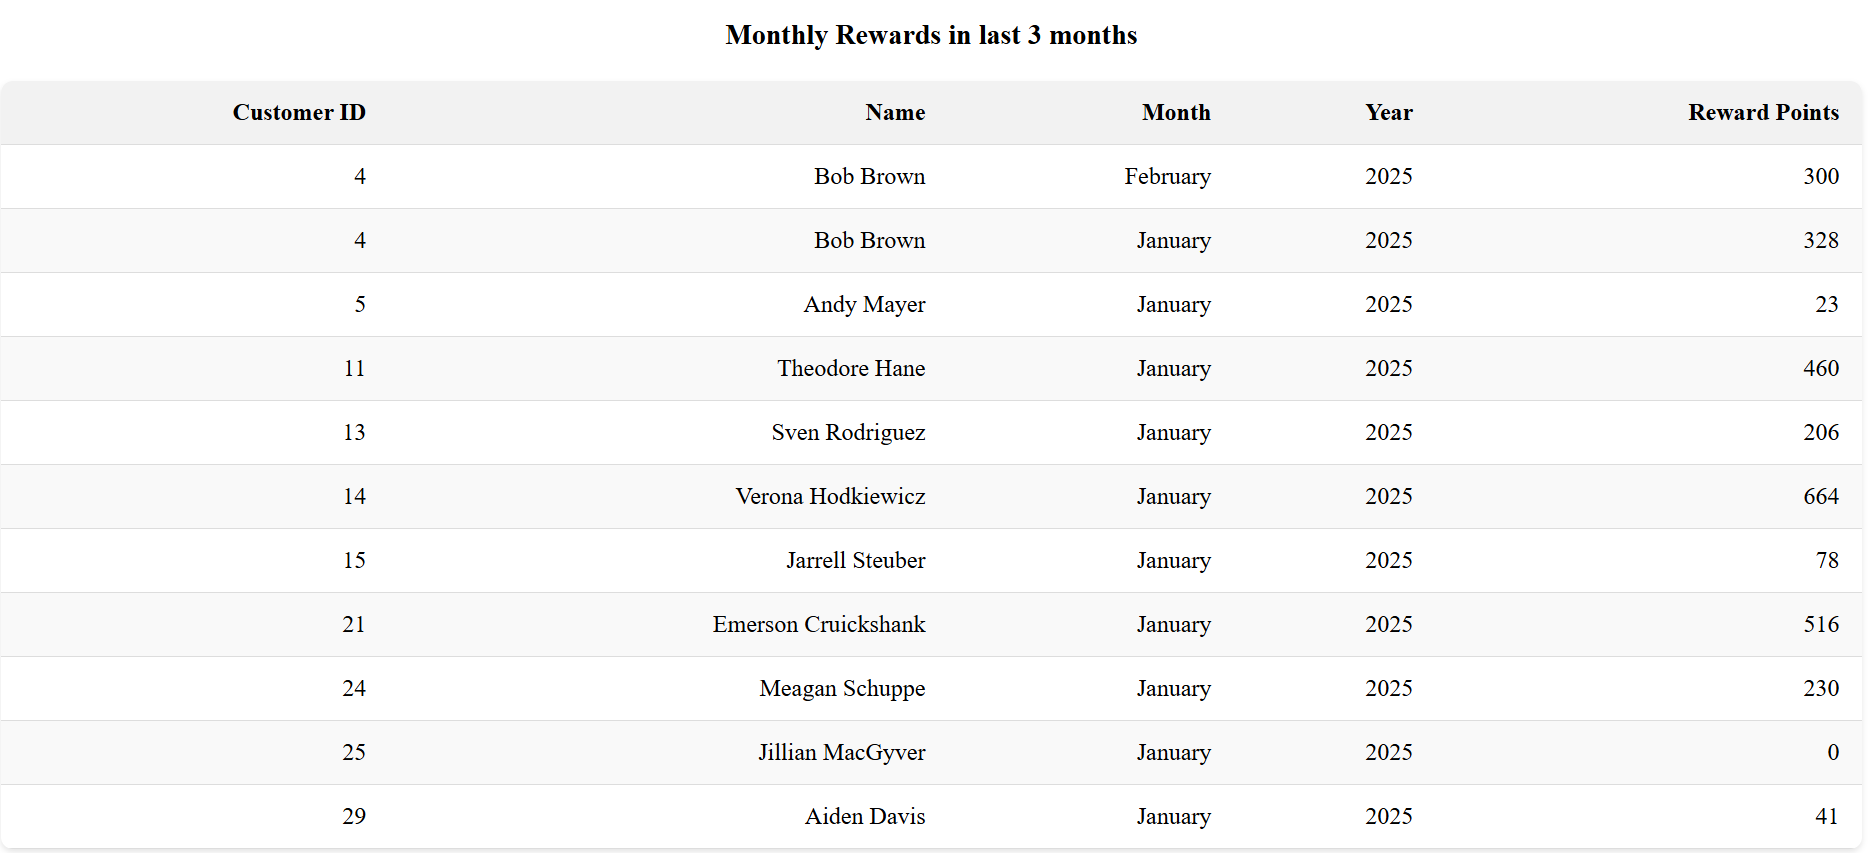
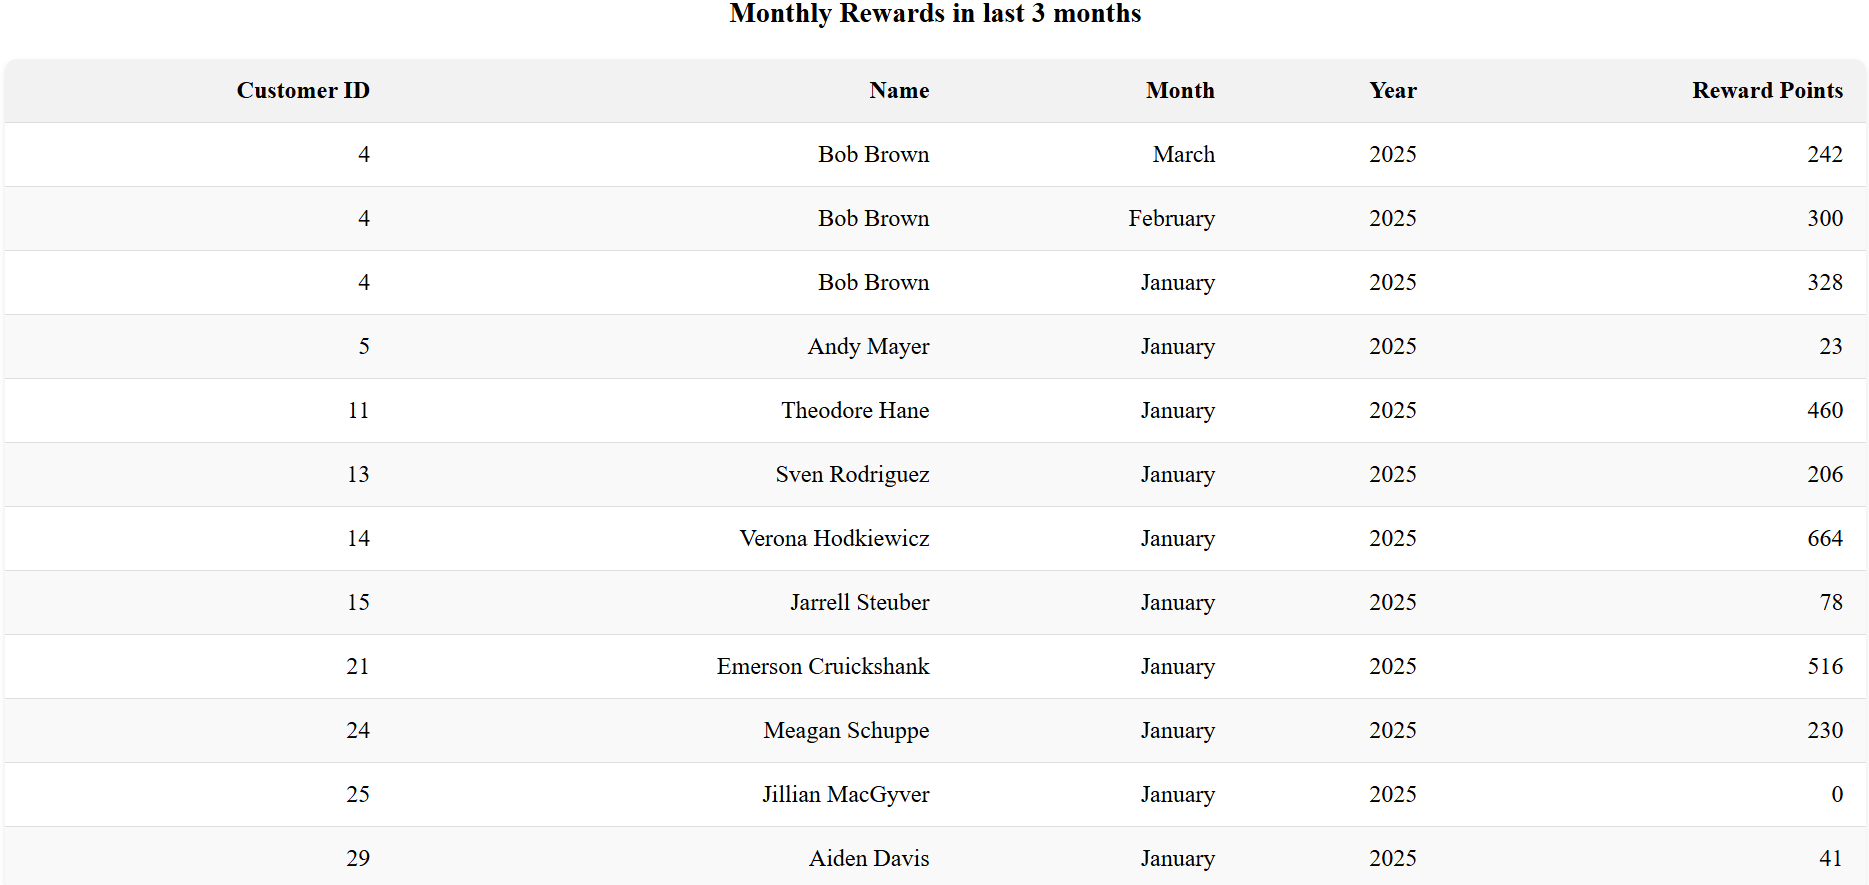
Data Changes, Fetch service updated

diff --git a/src/hooks/useFetchStates.js b/src/hooks/useFetchStates.js
@@ -1,0 +1,33 @@
+import { useEffect, useState } from "react";
+import fetchService from "../services/fetchMockDataSet";
+
+/**
+ * Fetches data from a URL, providing loading and error states.
+ *
+ * @param {string} url - The URL to fetch.
+ * @returns {{ data: any[], loading: boolean, error: Error|null }} - Data, loading status, and error.
+ */
+
+export const useFetchStates = (url) => {
+  const [data, setData] = useState([]);
+  const [loading, setLoading] = useState(false);
+  const [error, setError] = useState(null);
+
+  useEffect(() => {
+    const fetchData = async () => {
+      setLoading(true);
+      try {
+        const fetchedData = await fetchService(url);
+        setData(fetchedData);
+      } catch (err) {
+        setError(err);
+      } finally {
+        setLoading(false);
+      }
+    };
+
+    fetchData();
+  }, [url]);
+
+  return { data, loading, error };
+};

diff --git a/src/App.jsx b/src/App.jsx
@@ -1,12 +1,13 @@
-import fetchFromMockData from "./services/fetchFromMockData.js";
 import { monthlyAggregatePoints } from "./utils/monthlyAndTotalAggregatePoints.js";
 import { AllTransactions } from "./components/AllTransactions";
 import { MonthlyRewards } from "./components/MonthlyRewards";
 import TotalRewards from "./components/TotalRewards.jsx";
 import filterByMonths from "./utils/filterByMonths.js";
+import { useFetchStates } from "./hooks/useFetchStates.js";
+
 
 function App() {
-  const { data, loading, error } = fetchFromMockData();
+  const { data, loading, error } = useFetchStates('/mockDataApi.js');
   const todaysDate = new Date().toISOString().split("T")[0];
   const numberOfMonths = 3;
   const last3MonthsData = filterByMonths(data, todaysDate, numberOfMonths);

diff --git a/src/services/fetchMockDataSet.js b/src/services/fetchMockDataSet.js
@@ -1,0 +1,24 @@
+import logger from "../utils/logger";
+
+/**
+ * Fetches JSON data from a URL.
+ *
+ * @param {string} url - The URL to fetch data from.
+ * @returns {Promise<any>} - A promise that resolves to the parsed JSON data.
+ * @throws {Error} - Throws an error if the fetch fails or the response is not OK.
+ */
+
+const fetchService = async (url) => {
+  try {
+    const response = await fetch(url);
+    if (!response.ok) {
+      throw new Error(`HTTP error! status: ${response.status}`);
+    }
+    return await response.json();
+  } catch (error) {
+    logger.error("Fetch error:", error);
+    throw error;
+  }
+};
+
+export default fetchService;

diff --git a/public/mockDataApi.js b/public/mockDataApi.js
@@ -227,7 +227,7 @@
       "transactionId": "1aade410-7dd9-4844-93f8-9070cdf55877",
       "customerId": 4,
       "name": "Bob Brown",
-      "date": "2024-12-07T17:53:57.766Z",
+      "date": "2025-03-02T17:53:57.766Z",
       "productName": "Licensed Cotton Bacon",
       "amount": 196.00
     },
